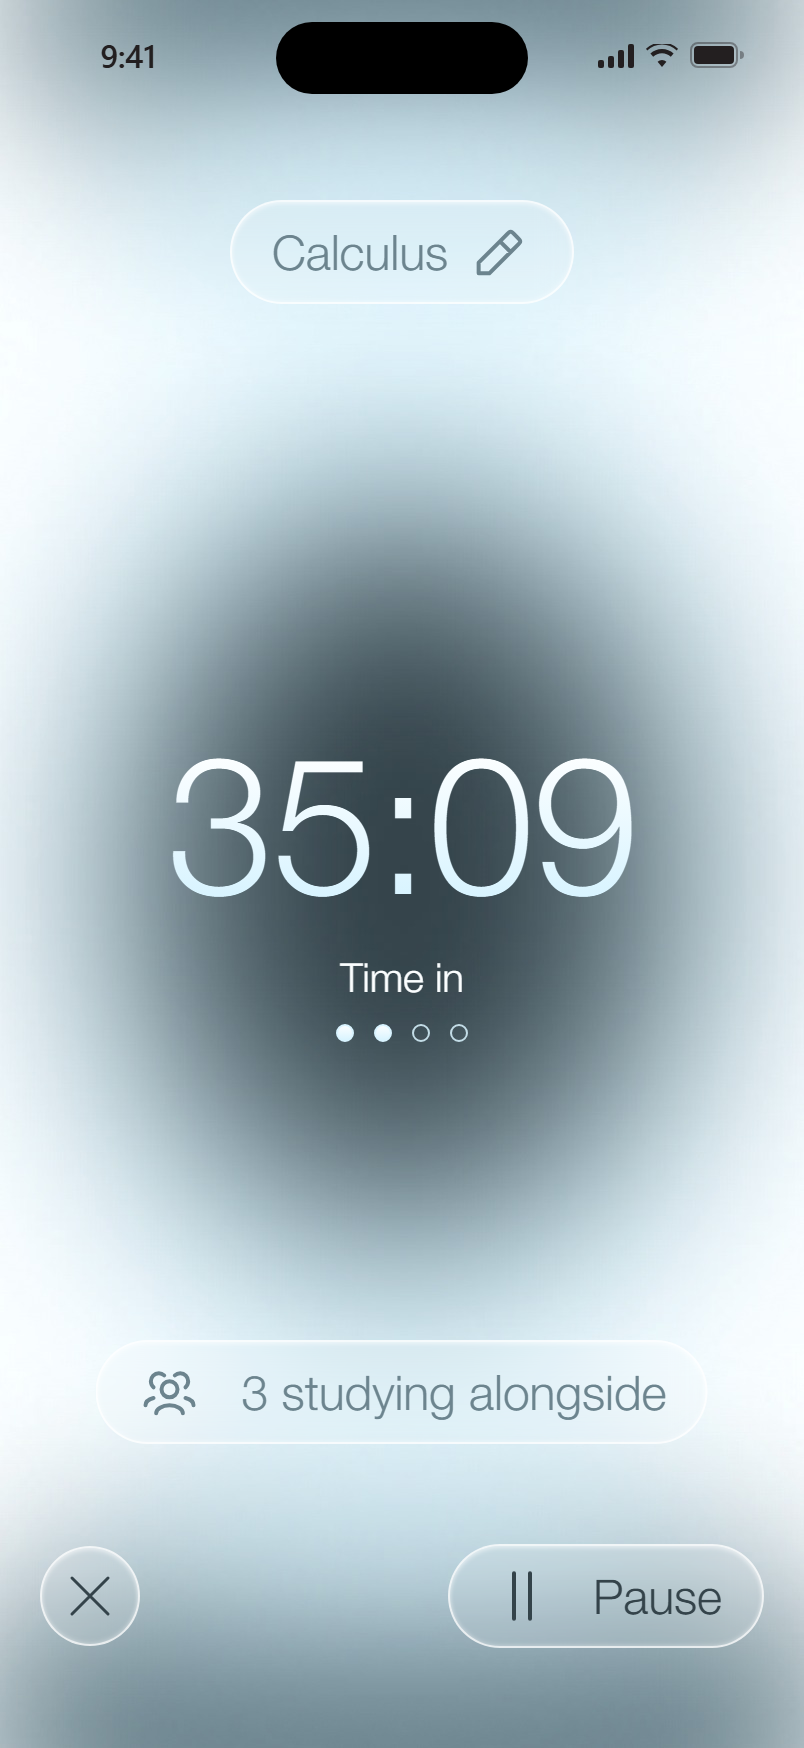
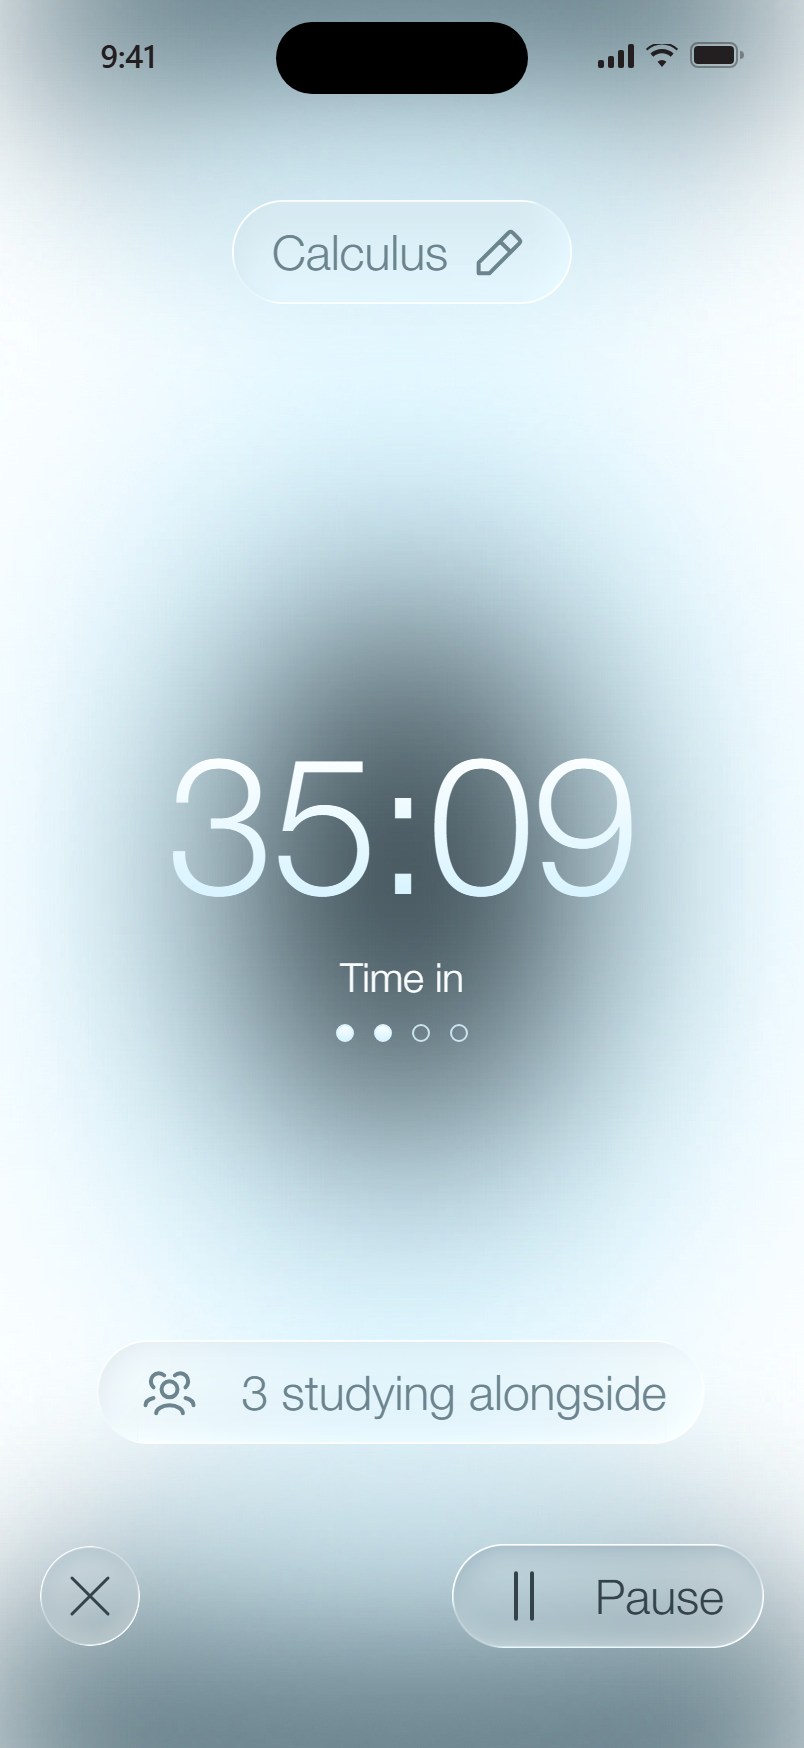
Bring in the latest Sessions prototype, and match the component sheets to it
The prototype now draws its timer glass from the file's own renders and
returns the chips and onboarding steps to the file's styling, so the
sheets do too; the dark labels, the end button, the paler session name
field and the greeting stay.

diff --git a/work/sessions-prototype.html b/work/sessions-prototype.html
@@ -225,15 +225,15 @@ svg.i{display:block;flex:none}
 .hours .big{transition:transform .16s var(--ease)}
 .hours .big.bump{transform:scale(1.02)}
 .go{position:absolute;right:20px;top:764px;width:217px;height:60px;border-radius:250px;display:flex;align-items:center;padding:5px;overflow:hidden;touch-action:none}
-.go .fill{position:absolute;left:0;top:0;bottom:0;width:60px;border-radius:250px;background:rgba(251,254,255,.35);pointer-events:none}
+.go .fill{position:absolute;left:0;top:0;bottom:0;width:0;border-radius:250px;background:rgba(251,254,255,.35);pointer-events:none}
 .go .lab,.go .chev{transition:opacity .2s ease}
 .go .knob{position:relative;z-index:2;width:50px;height:50px;border-radius:50%;background:var(--pale);border:1px solid rgba(255,255,255,.25);box-shadow:inset 0 1px 0 rgba(255,255,255,.7),0 2px 8px rgba(52,67,74,.12);display:grid;place-items:center;color:var(--deep);transition:transform .35s var(--ease)}
 .go .lab{position:absolute;left:85px;font-size:24px;line-height:24px;color:var(--deep)}
 .go .chev{position:absolute;right:20px;display:flex;color:var(--deep)}
 .go .chev svg{margin-left:-5px}
 /* name your session: the file's frame 437:1832 */
-.askhead{position:absolute;left:25px;right:25px;top:343px;display:flex;flex-direction:column;align-items:center;text-align:center}
-.g36{margin:0;font-size:32px;line-height:38px;font-weight:300;background:linear-gradient(180deg,#FBFEFF,#D9F4FF);-webkit-background-clip:text;background-clip:text;color:transparent}
+.askhead{position:absolute;left:25px;right:25px;top:293px;display:flex;flex-direction:column;align-items:center;text-align:center}
+.g36{margin:0;font-size:36px;line-height:42px;font-weight:300;background:linear-gradient(180deg,#FBFEFF,#D9F4FF);-webkit-background-clip:text;background-clip:text;color:transparent}
 .field.askfield{box-sizing:border-box;position:absolute;left:20px;top:519px;width:362px;background:rgba(217,244,255,.35);border:1px solid rgba(255,255,255,.4);box-shadow:inset 0 1px 2px rgba(255,255,255,.4);-webkit-backdrop-filter:blur(12px);backdrop-filter:blur(12px)}
 .askfield input{color:var(--ink)}
 .askfield input::placeholder{color:var(--ink)}
@@ -250,14 +250,22 @@ svg.i{display:block;flex:none}
 .bottomrow{position:absolute;left:20px;right:20px;bottom:50px;display:flex;justify-content:space-between;align-items:center}
 .pillbtn{display:flex;align-items:center;gap:20px;padding:0 20px;font-size:24px;color:var(--deep);height:52px}
 /* the timer's glass, as the file renders it: almost no fill, a bright 1px rim, an inner highlight, no drop shadow */
-[data-screen=run] .glass{-webkit-backdrop-filter:blur(8px);backdrop-filter:blur(8px);background:rgba(255,255,255,.12);border:1px solid rgba(255,255,255,.75);box-shadow:inset 0 1px 2px rgba(255,255,255,.55),inset 0 -1px 2px rgba(255,255,255,.2)}
+/* Figma's Glass effect (refraction 1, depth 70, light -45°, dispersion 1) has no CSS equivalent, so each glass piece is Figma's own render of it,
+   cut from the frame. Pills stretch from the middle so the rounded ends stay exact at any label width. */
+[data-screen=run] .glass,[data-screen=dial] .seg .knob,[data-screen=dial] .go .knob{background:none!important;border:0;box-shadow:none!important;-webkit-backdrop-filter:none!important;backdrop-filter:none!important}
+[data-screen=run] .tag.glass{border-style:solid;border-width:0 20px;padding:0;border-image:url(sessions-proto/g_tag.png) 0 40 fill / 0 20px stretch;height:52px}
+[data-screen=run] .along.glass{border-style:solid;border-width:0 20px;padding:0;border-image:url(sessions-proto/g_along.png) 0 40 fill / 0 20px stretch;height:52px}
+[data-screen=run] .pillbtn.glass{border-style:solid;border-width:0 20px;padding:0;border-image:url(sessions-proto/g_pause.png) 0 40 fill / 0 20px stretch;height:52px}
+[data-screen=run] .iconbtn.glass{background:url(sessions-proto/g_close.png) 0 0/50px 50px no-repeat!important}
+[data-screen=dial] .seg .knob{background:url(sessions-proto/g_pub.png) 0 0/111px 54px no-repeat!important;border-radius:250px}
+[data-screen=dial] .go .knob{background:url(sessions-proto/g_go.png) 0 0/50px 49px no-repeat!important}
 .along{position:absolute;left:50%;top:670px;transform:translateX(-50%);display:flex;align-items:center;gap:20px;height:52px;padding:0 20px;color:var(--slate);font-size:24px;white-space:nowrap}
 
 /* onboarding */
 .steps{display:flex;gap:6px;flex:1}
-.steps i{position:relative;flex:1;height:5px;border-radius:250px;background:rgba(229,229,229,.5);border:1px solid var(--line);box-sizing:content-box;overflow:hidden}
-.steps i::after{content:"";position:absolute;inset:0;border-radius:250px;background:var(--pale);transform:scaleX(0);transform-origin:left}
-.steps i.on::after{transform:none}
+.steps i{position:relative;flex:1;height:5.625px;border-radius:4.5px;border:.5px solid var(--ink);background:transparent;overflow:hidden;box-sizing:border-box}
+.steps i::after{content:"";position:absolute;inset:0;background:var(--pale);transform:scaleX(0);transform-origin:left}
+.steps i.on::after{transform:none;opacity:.5}
 .steps i.now::after{animation:stepfill .6s var(--ease) .15s both}
 @keyframes stepfill{from{transform:scaleX(0)}to{transform:none}}
 .obhead{position:absolute;left:20px;right:20px;top:100px;display:flex;align-items:center;gap:16px;height:24px}
@@ -270,9 +278,10 @@ svg.i{display:block;flex:none}
 .inputline input::placeholder{color:rgba(35,31,32,.4)}
 .textlink{font-size:16px;color:var(--slate);text-align:center;height:44px}
 .chips{display:flex;flex-wrap:wrap;gap:8px}
-.chip{white-space:nowrap;height:44px;padding:0 10px;border-radius:12.5px;border:1px solid var(--line);font-size:16px;background:var(--bg);transition:background .2s,border-color .2s}
-.chip[aria-pressed="true"]{background:var(--pale);border-color:var(--pale)}
-.chip.add{width:44px;padding:0;display:grid;place-items:center}
+.chip{position:relative;white-space:nowrap;height:39px;padding:0 10px;border-radius:10px;border:1px solid var(--line);font-size:16px;background:transparent;transition:background .2s,border-color .2s}
+.chip::after{content:"";position:absolute;inset:-3px 0}
+.chip[aria-pressed="true"]{background:rgba(217,244,255,.5);border-color:var(--slate)}
+.chip.add{width:39px;padding:0;display:grid;place-items:center}
 /* settings choices use the Settings row: line border, radius 15, 20px title over a 16px line, and a thin ink check on the chosen row (iOS list convention) */
 .opt{display:flex;align-items:center;gap:16px;min-height:64px;padding:10px 20px;width:100%;text-align:left;background:var(--bg);border:1px solid var(--line);border-radius:15px;transition:border-color .2s}
 .opt .stack{flex:1;min-width:0;gap:2px}
@@ -616,7 +625,7 @@ map:{label:'Map',html:()=>{
     s.querySelectorAll('[data-view]').forEach(b=>b.onclick=()=>b.dataset.view==='library'?go('session',{key:'library'}):go('friend',{key:b.dataset.view}));}},
 
 ask:{label:'Name your session',html:()=>`<img class="bgimg" src="sessions-proto/askbg.jpg" alt="" aria-hidden="true">
-  <div class="askhead" aria-hidden="false"><p class="g36">Hello, ${S.name}</p><h1 class="g36" style="margin-top:32px">What are you<br>studying today?</h1></div>
+  <div class="askhead" aria-hidden="false"><p class="g36">Hello, ${S.name}</p><h1 class="g36" style="margin-top:50px">What are you<br>studying today?</h1></div>
   <form class="field askfield" data-form autocomplete="off"><input data-name aria-label="Session name" placeholder="Session Name" maxlength="24"><button class="send" type="submit" aria-label="Next">${I('right')}</button></form>
   <button class="iconbtn clear askclose" data-back aria-label="Close">${I('close')}</button>`,
   mount(s){const f=s.querySelector('[data-form]'),i=s.querySelector('[data-name]');f.onsubmit=e=>{e.preventDefault();S.subject=i.value.trim()||'Calculus';go('dial');};}},
@@ -627,17 +636,17 @@ dial:{label:'Set the length',html:()=>{
   return `<img class="bgimg" src="sessions-proto/dialbg.jpg" alt="" aria-hidden="true">
   <div class="seg" role="group" aria-label="Who can see this session"><span class="knob" style="${S.pub?'':'left:118px'}"></span><button data-pub="1" aria-pressed="${S.pub}">Public</button><button data-pub="0" aria-pressed="${!S.pub}">Private</button></div>
   <div class="hours" aria-live="polite"><div class="big grad-text" data-big>${L.big}</div><div class="unit" data-unit>${L.unit}</div></div>
-  <svg class="dial" data-dial viewBox="0 0 402 309" fill="none" xmlns="http://www.w3.org/2000/svg" role="slider" tabindex="0" aria-label="Session length" aria-valuemin="15" aria-valuemax="240" aria-valuenow="${S.mins}" aria-valuetext="${L.big} ${L.unit}"> <defs> <linearGradient id="d_fade" x1="201.5" y1="8" x2="201.5" y2="411" gradientUnits="userSpaceOnUse"><stop stop-color="#D9F4FF"/><stop offset="0.4" stop-color="#D9F4FF" stop-opacity="0"/></linearGradient> <linearGradient id="d_mark_mask" x1="201.5" y1="0" x2="201.5" y2="417" gradientUnits="userSpaceOnUse"><stop stop-color="#596E77"/><stop offset="0.4" stop-color="#D9F4FF" stop-opacity="0"/></linearGradient> <linearGradient id="d_mark" x1="202.018" y1="-1.03467" x2="202.018" y2="52.7718" gradientUnits="userSpaceOnUse"><stop stop-color="#596E77"/><stop offset="1" stop-color="#A5CCDD"/></linearGradient> <linearGradient id="d_w" x1="0" y1="0" x2="0" y2="1"><stop stop-color="#D9F4FF"/><stop offset="1" stop-color="#D9F4FF" stop-opacity="0"/></linearGradient> <linearGradient id="d_t" x1="0" y1="0" x2="0" y2="1"><stop stop-color="#D9F4FF"/><stop offset="1" stop-color="#D9F4FF" stop-opacity="0.5"/></linearGradient> <linearGradient id="d_ts" x1="0" y1="0" x2="0" y2="1"><stop stop-color="#D9F4FF"/><stop offset="0.4" stop-color="#D9F4FF" stop-opacity="0"/></linearGradient> <mask id="d_m0" style="mask-type:alpha" maskUnits="userSpaceOnUse" x="0" y="8" width="403" height="403"><circle cx="201.5" cy="209.5" r="186.5" stroke="url(#d_fade)" stroke-width="30" stroke-linejoin="round" stroke-dasharray="4 10"/></mask> <mask id="d_m1" style="mask-type:alpha" maskUnits="userSpaceOnUse" x="-7" y="0" width="417" height="417"><circle cx="201.5" cy="208.5" r="183.5" stroke="url(#d_mark_mask)" stroke-width="50" stroke-linejoin="round" stroke-dasharray="4 10"/></mask> <mask id="d_m2" style="mask-type:alpha" maskUnits="userSpaceOnUse" x="-7" y="0" width="417" height="417"><circle cx="201.5" cy="208.5" r="183.5" stroke="url(#d_fade)" stroke-width="50" stroke-linejoin="round" stroke-dasharray="4 10"/></mask> </defs> <g data-ticks style="transform-origin:201.5px 208.5px"> <g mask="url(#d_m0)"> <rect x="212.027" y="6" width="34.7501" height="48.0387" transform="rotate(7.20802 212.027 6)" fill="url(#d_w)"/> <rect width="34.7501" height="48.0387" transform="matrix(-0.992097 0.125472 0.125472 0.992097 190.477 6)" fill="url(#d_w)"/> <rect width="34.7501" height="48.0387" transform="matrix(-0.927088 0.374843 0.374843 0.927088 136.217 17)" fill="url(#d_w)"/> <rect width="34.7501" height="48.0387" transform="matrix(-0.766992 0.641657 0.641657 0.766992 86.6523 42)" fill="url(#d_w)"/> <rect width="34.7501" height="48.0387" transform="matrix(-0.536912 0.843638 0.843638 0.536912 44.6582 78)" fill="url(#d_w)"/> <rect width="34.7501" height="48.0387" transform="matrix(-0.314247 0.949341 0.949341 0.314247 16.9199 127)" fill="url(#d_w)"/> <rect x="267.527" y="15" width="34.7501" height="48.0387" transform="rotate(22.6863 267.527 15)" fill="url(#d_w)"/> <rect x="316.648" y="41" width="34.7501" height="48.0387" transform="rotate(38.1093 316.648 41)" fill="url(#d_w)"/> <rect x="359.029" y="77" width="34.7501" height="48.0387" transform="rotate(56.4368 359.029 77)" fill="url(#d_w)"/> <rect x="385.773" y="124" width="34.7501" height="48.0387" transform="rotate(65.6713 385.773 124)" fill="url(#d_w)"/> </g> <g mask="url(#d_m2)"> <rect x="144.546" y="8.65052" width="4.13896" height="49.6675" transform="rotate(-15.4697 144.546 8.65052)" fill="url(#d_t)" stroke="url(#d_ts)" stroke-width="4.13896"/> <rect x="91.8249" y="30.8846" width="4.13896" height="49.6675" transform="rotate(-29.8475 91.8249 30.8846)" fill="url(#d_t)" stroke="url(#d_ts)" stroke-width="4.13896"/> <rect x="46.925" y="67.949" width="4.13896" height="49.6675" transform="rotate(-46.9359 46.925 67.949)" fill="url(#d_t)" stroke="url(#d_ts)" stroke-width="4.13896"/> <rect x="15.8422" y="111.383" width="4.13896" height="49.6675" transform="rotate(-58.7987 15.8422 111.383)" fill="url(#d_t)" stroke="url(#d_ts)" stroke-width="4.13896"/> <rect x="307.558" y="29.842" width="4.13896" height="49.6675" transform="rotate(31.1834 307.558 29.842)" fill="url(#d_t)" stroke="url(#d_ts)" stroke-width="4.13896"/> <rect x="350.494" y="64.9264" width="4.13896" height="49.6675" transform="rotate(45.736 350.494 64.9264)" fill="url(#d_t)" stroke="url(#d_ts)" stroke-width="4.13896"/> <rect x="385.682" y="110.754" width="4.13896" height="49.6675" transform="rotate(64.7641 385.682 110.754)" fill="url(#d_t)" stroke="url(#d_ts)" stroke-width="4.13896"/> <rect x="255.018" y="7.52351" width="4.13896" height="49.6675" transform="rotate(14.5691 255.018 7.52351)" fill="url(#d_t)" stroke="url(#d_ts)" stroke-width="4.13896"/> </g> </g> <rect x="199.5" y="0" width="4" height="50" fill="url(#d_mark)"/> </svg>
+  <svg class="dial" data-dial viewBox="0 0 402 309" fill="none" xmlns="http://www.w3.org/2000/svg" role="slider" tabindex="0" aria-label="Session length" aria-valuemin="15" aria-valuemax="240" aria-valuenow="${S.mins}" aria-valuetext="${L.big} ${L.unit}"><defs><linearGradient id="d_tick" x1="0" y1="0" x2="0" y2="1"><stop stop-color="#D9F4FF"/><stop offset="1" stop-color="#D9F4FF" stop-opacity=".35"/></linearGradient><linearGradient id="d_mark" x1="0" y1="0" x2="0" y2="1"><stop stop-color="#596E77"/><stop offset="1" stop-color="#A5CCDD"/></linearGradient><linearGradient id="d_fadeg" x1="0" y1="0" x2="0" y2="167" gradientUnits="userSpaceOnUse"><stop stop-color="#fff"/><stop offset="1" stop-color="#fff" stop-opacity="0"/></linearGradient><mask id="d_fade" maskUnits="userSpaceOnUse" x="0" y="0" width="402" height="309"><rect width="402" height="167" fill="url(#d_fadeg)"/></mask></defs><g data-ticks mask="url(#d_fade)">${Array.from({length:129},(_,i)=>{const k=i-64,m=S.mins+k*15,maj=m%60===0;return `<rect data-k="${k}" x="${maj?199.5:200}" y="${maj?6:9}" width="${maj?4:3}" height="${maj?48:30}" fill="url(#d_tick)"/>`;}).join('')}</g><rect x="199.5" y="0" width="4" height="50" fill="url(#d_mark)"/></svg>
   <button data-back aria-label="Close" style="position:absolute;left:20px;top:769px;width:50px;height:50px;border-radius:50%"></button>
   <div class="go" data-go-slider role="button" tabindex="0" aria-label="Slide to start"><span class="fill" data-fill></span><span class="knob" data-knob>${I('right')}</span><span class="lab">Go</span><span class="chev"><span style="opacity:.25">${I('chevron')}</span><span style="opacity:.5">${I('chevron')}</span><span>${I('chevron')}</span></span></div>`},
   mount(s){
     s.querySelectorAll('[data-pub]').forEach(b=>b.onclick=()=>{S.pub=b.dataset.pub==='1';const k=s.querySelector('.seg .knob');k.style.left=S.pub?'3px':'118px';k.style.width='111px';s.querySelectorAll('[data-pub]').forEach(x=>x.setAttribute('aria-pressed',(x.dataset.pub==='1')===S.pub));});
-    const dial=s.querySelector('[data-dial]'),rings=[...dial.querySelectorAll('mask circle')].filter(c=>!c.closest('#d_m1'));
+    const dial=s.querySelector('[data-dial]'),ticks=[...dial.querySelectorAll('[data-k]')].map(r=>{r.style.transformOrigin='201.5px 208.5px';return [r,+r.dataset.k];});
     const big=s.querySelector('[data-big]'),unit=s.querySelector('[data-unit]');
     /* one tick = 3.1° = 15 minutes; the ring's angle is the single source of truth */
-    const STEP=3.1, base=S.mins; let rot=0;
+    const STEP=4.125, base=S.mins; let rot=0;
     const angleFor=m=>-(m-base)/15*STEP, minsFor=a=>Math.max(15,Math.min(240,base-Math.round(a/STEP)*15));
-    const setRot=(a,animate)=>{rot=Math.max(angleFor(240),Math.min(angleFor(15),a));rings.forEach(c=>{const o0=0;c.style.transition=animate?'stroke-dashoffset .35s var(--ease)':'none';c.style.strokeDashoffset=(o0+rot/STEP*14).toFixed(2);});
+    const setRot=(a,animate)=>{rot=Math.max(angleFor(240),Math.min(angleFor(15),a));ticks.forEach(([r,k])=>{const a=k*STEP+rot,f=Math.abs(a)<1.2||Math.abs(a)>80?0:1;r.style.transition=animate?'transform .35s var(--ease),opacity .35s var(--ease)':'none';r.style.transform=`rotate(${a.toFixed(3)}deg)`;r.style.opacity=f;});
       const m=minsFor(rot);if(m!==S.mins){S.mins=m;const L=minsLabel(m);big.textContent=L.big;unit.textContent=L.unit;dial.setAttribute('aria-valuenow',m);dial.setAttribute('aria-valuetext',L.big+' '+L.unit);big.classList.remove('bump');void big.offsetWidth;big.classList.add('bump');}};
     const snap=()=>setRot(Math.round(rot/STEP)*STEP,true);
     let x0=null,r0=0;
@@ -648,7 +657,7 @@ dial:{label:'Set the length',html:()=>{
     s.nudge=d=>setRot(rot-d*STEP,true);setRot(0,false);
     const sl=s.querySelector('[data-go-slider]'),kn=s.querySelector('[data-knob]'),fill=s.querySelector('[data-fill]'),lab=sl.querySelector('.lab'),chev=sl.querySelector('.chev');const MAX=157;let sx=null,px=0;
     const place=(x,anim)=>{px=Math.max(0,Math.min(MAX,x));const t=anim?`transform .4s ${anim==='spring'?'var(--spring)':'var(--ease)'}`:'none';kn.style.transition=t;fill.style.transition=anim?'width .4s var(--ease)':'none';
-      kn.style.transform=`translateX(${px}px)`;fill.style.width=(px+60)+'px';const p=px/MAX;lab.style.opacity=Math.max(0,1-p*1.6);chev.style.opacity=Math.max(0,1-p*1.3);};
+      kn.style.transform=`translateX(${px}px)`;fill.style.width=(px?px+60:0)+'px';const p=px/MAX;lab.style.opacity=Math.max(0,1-p*1.6);chev.style.opacity=Math.max(0,1-p*1.3);};
     const start=()=>{place(MAX,'ease');setTimeout(()=>{S.elapsed=0;S.running=true;S.joined=false;S.along=3;go('run',{t:'fade'});},reduce?0:420);};
     sl.addEventListener('pointerdown',e=>{sx=e.clientX-px*($('#device').getBoundingClientRect().width/402);sl.setPointerCapture(e.pointerId);});
     sl.addEventListener('pointermove',e=>{if(sx===null)return;const k=$('#device').getBoundingClientRect().width/402;place((e.clientX-sx)/k,false);});
